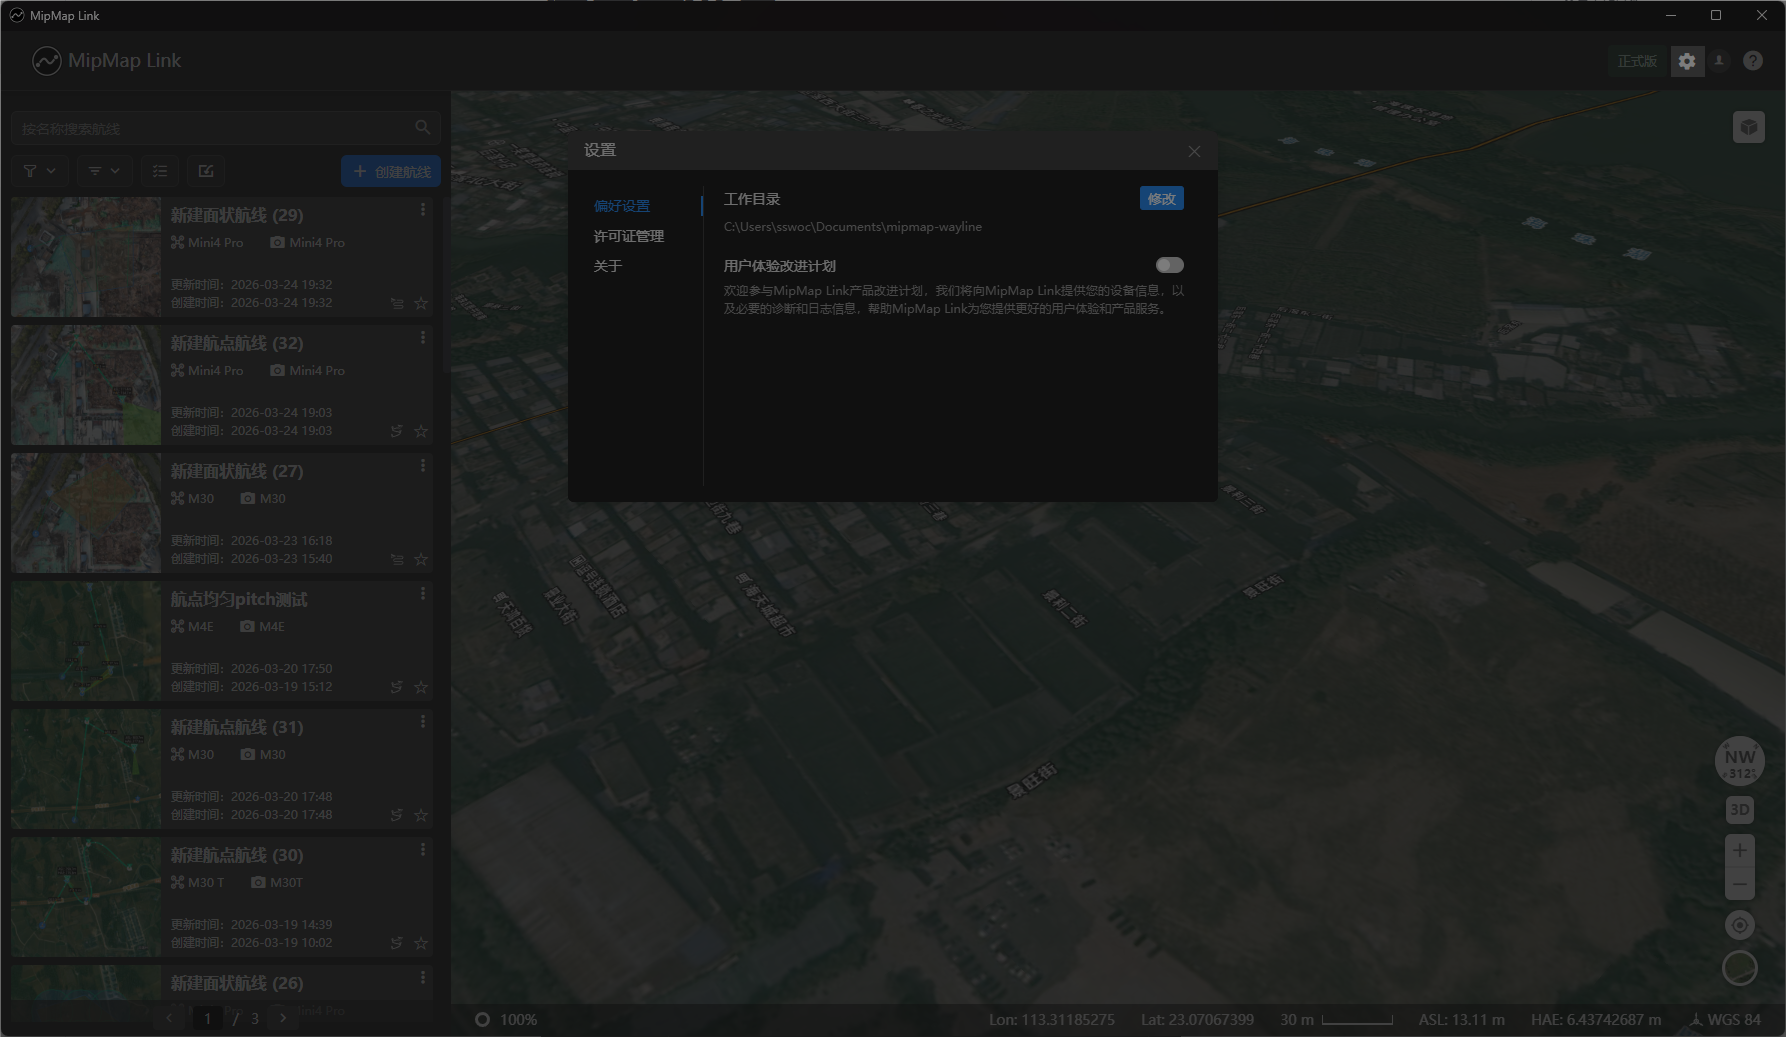
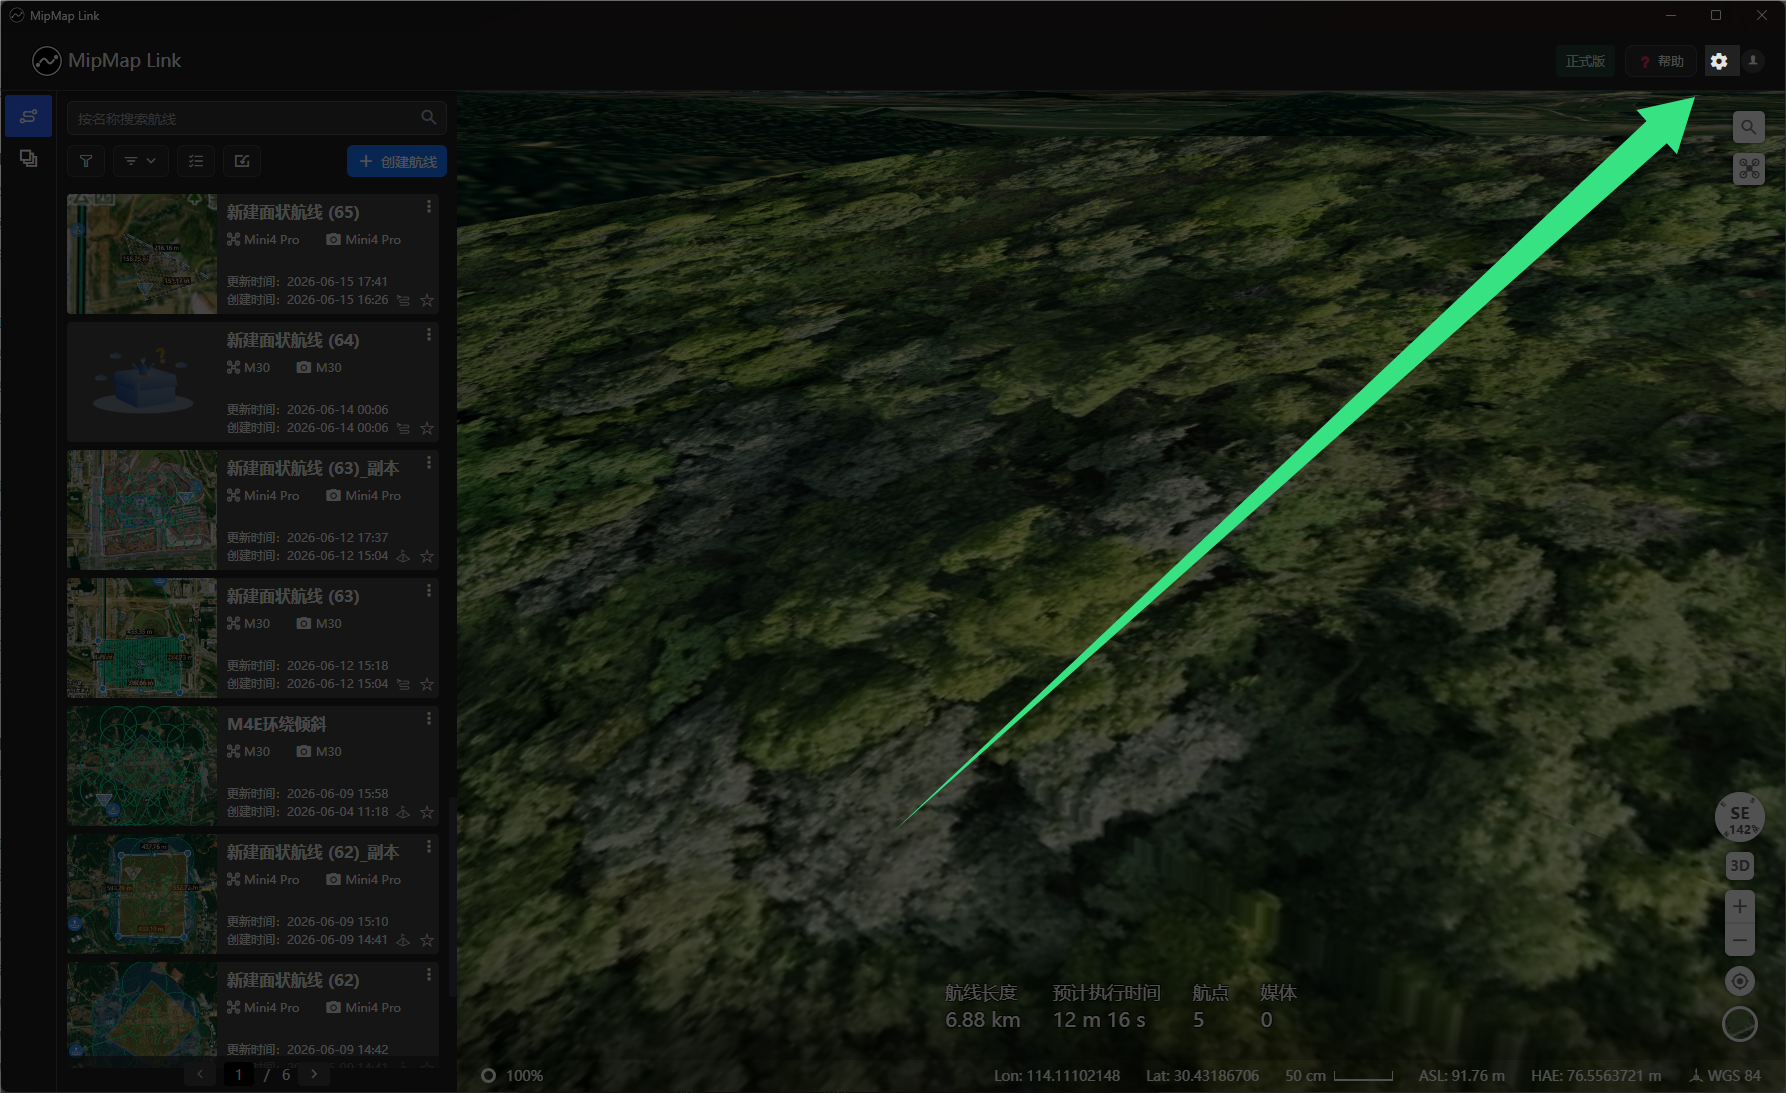
替换过时图像；修复部分格式问题

Changed region(s): [[0.0, 0.0, 1.0, 1.0], [0.9854, 0.8332, 1.0, 0.864]]

diff --git a/docs/zh-Hans/SharedSets/DataTakeMode.md b/docs/zh-Hans/SharedSets/DataTakeMode.md
@@ -9,9 +9,9 @@ sidebar_position: 17
 
 对于行业级无人机，三种数据采集方式都只需要少量航点，不会导致遥控器卡顿
 
-对于消费级无人机：
-等距间隔拍照会每隔固定距离插入一个航点，所需航点量比较大，可能导致遥控器卡顿
-等时间隔拍照只需要少量关键航点，但需要在飞行器飞到首航点时，在遥控器上手动开启定时拍照，无法自动开启
+对于消费级无人机：  
+等距间隔拍照会每隔固定距离插入一个航点，所需航点量比较大，可能导致遥控器卡顿  
+等时间隔拍照只需要少量关键航点，但需要在飞行器飞到首航点时，在遥控器上手动开启定时拍照，无法自动开启  
 录制视频的方式只需要少量关键航点，且无需手动操作，是比较良好的数据采集方式
 
 :::tip

diff --git a/docs/zh-Hans/WaypointRoute/AddWaypoint.md b/docs/zh-Hans/WaypointRoute/AddWaypoint.md
@@ -5,10 +5,12 @@ sidebar_position: 4
 点击右侧面板的![](/img/WaypointRoute/AddWaypoint/image-0.png)按钮可查看航点列表
 
 ### 1. 右键直接添加
-![](/img/WaypointRoute/AddWaypoint/image-1.png)![](/img/WaypointRoute/AddWaypoint/image-8.png)
+
+![](/img/WaypointRoute/AddWaypoint/image-1.png)
+
+![](/img/WaypointRoute/AddWaypoint/image-8.png)
 
 添加相对起飞点后，在地图上目标位置右键即可添加航点，直接添加的航点，**将使用全局设置参数**，后续可手动修改
-
 
 
 ### 2. 右键相对添加

diff --git a/docs/zh-Hans/Map/MapControls.md b/docs/zh-Hans/Map/MapControls.md
@@ -4,28 +4,33 @@ sidebar_position: 1
 ---
 ### 1. 地图平移
 鼠标左键按下后，移动鼠标，可绕地球球心平移地图，松开左键停止移动
+
 ![](/img/Map/MapControls/image-0.gif)
 
 
 ### 2. 地图旋转
 鼠标中键按下后，移动鼠标，以此旋转或倾斜相机；Ctrl+鼠标左键 也可进入旋转控制
+
 ![](/img/Map/MapControls/image-1.gif)
 
 
 
 ### 3. 地图缩放
 滚动鼠标滚轮缩放场景；鼠标右键按下后，上下移动鼠标，也可快捷缩放场景
+
 ![](/img/Map/MapControls/image-2.gif)
 
 
 
 ### 4. 第一人称观察四周
 Alt+鼠标左键按下后，移动鼠标，此时相机位置不变，以第一人称视角观察四周
+
 ![](/img/Map/MapControls/image-3.gif)
 
 
 
 ### 5. 平移场景
 Shift+鼠标左键按下后，移动鼠标，可上下左右平移整个场景，不受地球球心约束，方便浏览高塔等较高的模型
+
 ![](/img/Map/MapControls/image-4.gif)
 

diff --git a/docs/zh-Hans/RouteManager/Interface.md b/docs/zh-Hans/RouteManager/Interface.md
@@ -33,6 +33,7 @@ sidebar_position: 1
 
 ### 6. 航线过滤
 ![](/img/RouteManager/Interface/8.png)
+
 此处可控制航线列表显示哪些机型、哪些类型的航线，未勾选的将不显示
 
 ### 7. 航线基础信息